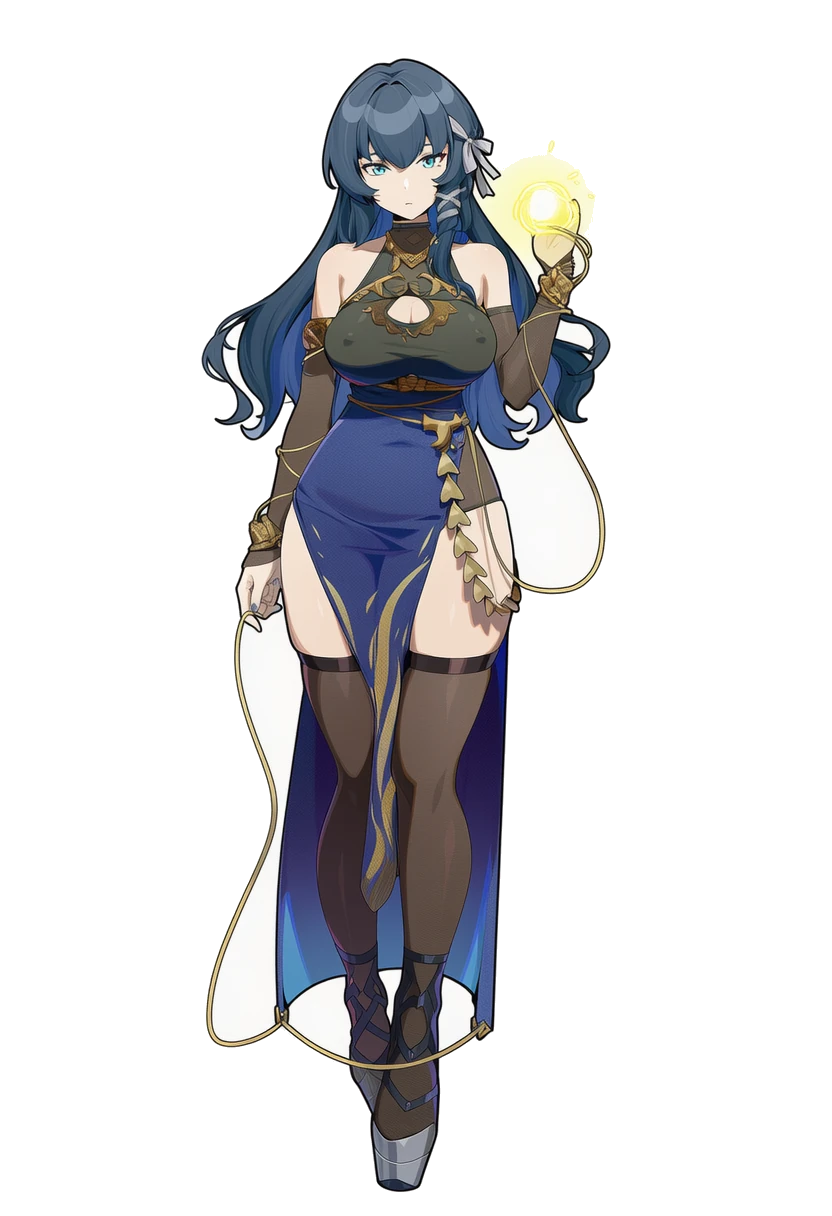
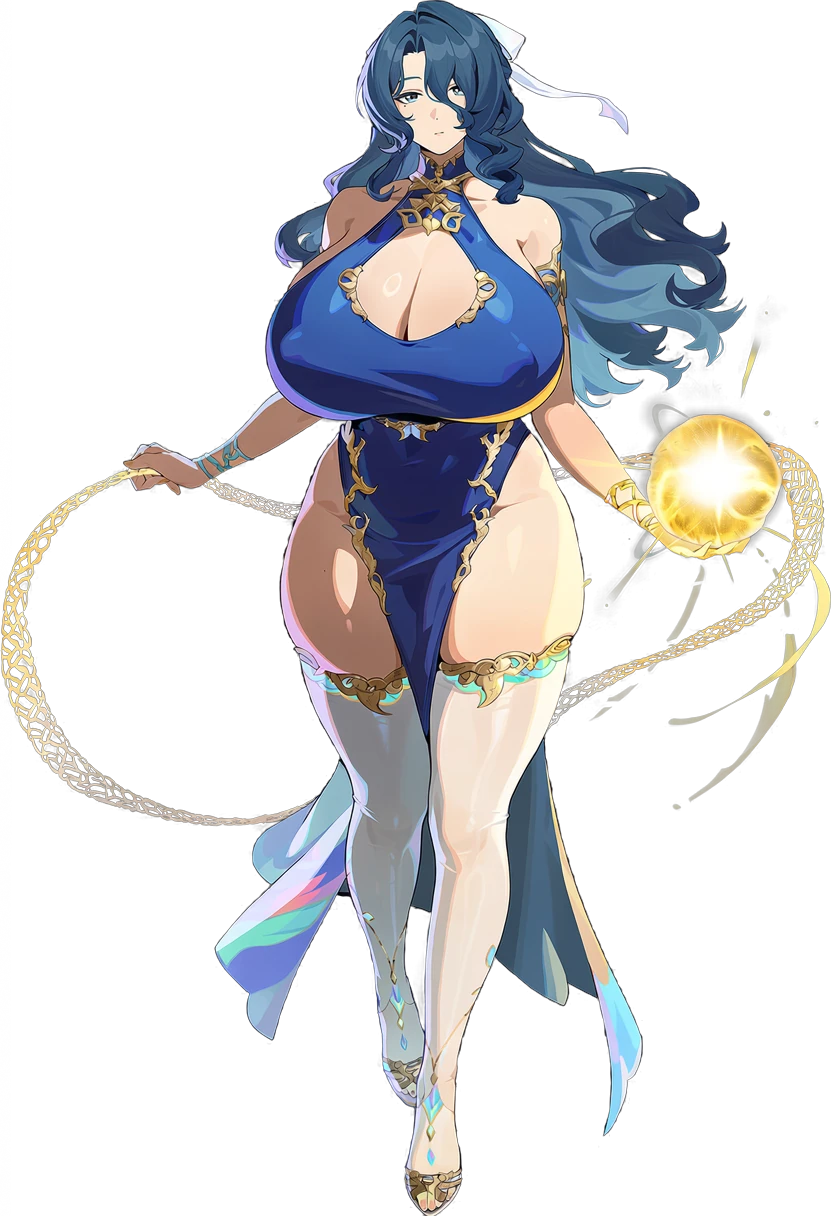
レジェンド3人を差し替え（アルヴィナ6 / ヴェスタ4 / ソルヴェイグ6）
胸のバリエーションを意図的に振る方針の初回。5人を並べると
小・中・大・巨が判別できる状態になり、これまでの「全員同じ方向」から抜けた。

リコリスとヴェルナは撮り直し（別途指示）。

diff --git a/data/characters.js b/data/characters.js
@@ -627,7 +627,7 @@ RPG.data.characters = {
     color: '#f0f0e0', accent: '#4a4638', glyph: '槍',
     art: {
       // 立ち絵から自動計測（tools/detect_faces.py）。調整は test/art.html から。
-      face: { x: 0.5337, y: 0.1228, size: 0.3437 },
+      face: { x: 0.602, y: 0.097, size: 0.371 },
       gender: 'female', hair: 'ponytail', expression: 'fierce', accessory: 'circlet',
       hairColor: '#f0ecd8', hairLight: '#fffdf0', hairDark: '#98927c',
       eye: '#8ce8a8', eyeLight: '#ccffdc',
@@ -894,7 +894,7 @@ RPG.data.characters = {
     color: '#b8f0d8', accent: '#16443a', glyph: '雷',
     art: {
       // 立ち絵から自動計測（tools/detect_faces.py）。調整は test/art.html から。
-      face: { x: 0.576, y: 0.113, size: 0.363 },
+      face: { x: 0.575, y: 0.099, size: 0.370 },
       gender: 'female', hair: 'ponytail', expression: 'fierce', accessory: 'circlet',
       hairColor: '#9fe8c8', hairLight: '#d8fff0', hairDark: '#3e8870',
       eye: '#7ef0ff', eyeLight: '#c8faff',
@@ -924,7 +924,7 @@ RPG.data.characters = {
     color: '#8ec4ff', accent: '#16304e', glyph: '織',
     art: {
       // 立ち絵から自動計測（tools/detect_faces.py）。調整は test/art.html から。
-      face: { x: 0.52, y: 0.138, size: 0.346 },
+      face: { x: 0.556, y: 0.097, size: 0.371 },
       gender: 'female', hair: 'wavy', expression: 'calm', accessory: 'ribbon',
       hairColor: '#7fa8e0', hairLight: '#c0dcff', hairDark: '#3a5c88',
       eye: '#a8d8ff', eyeLight: '#dcf0ff',
